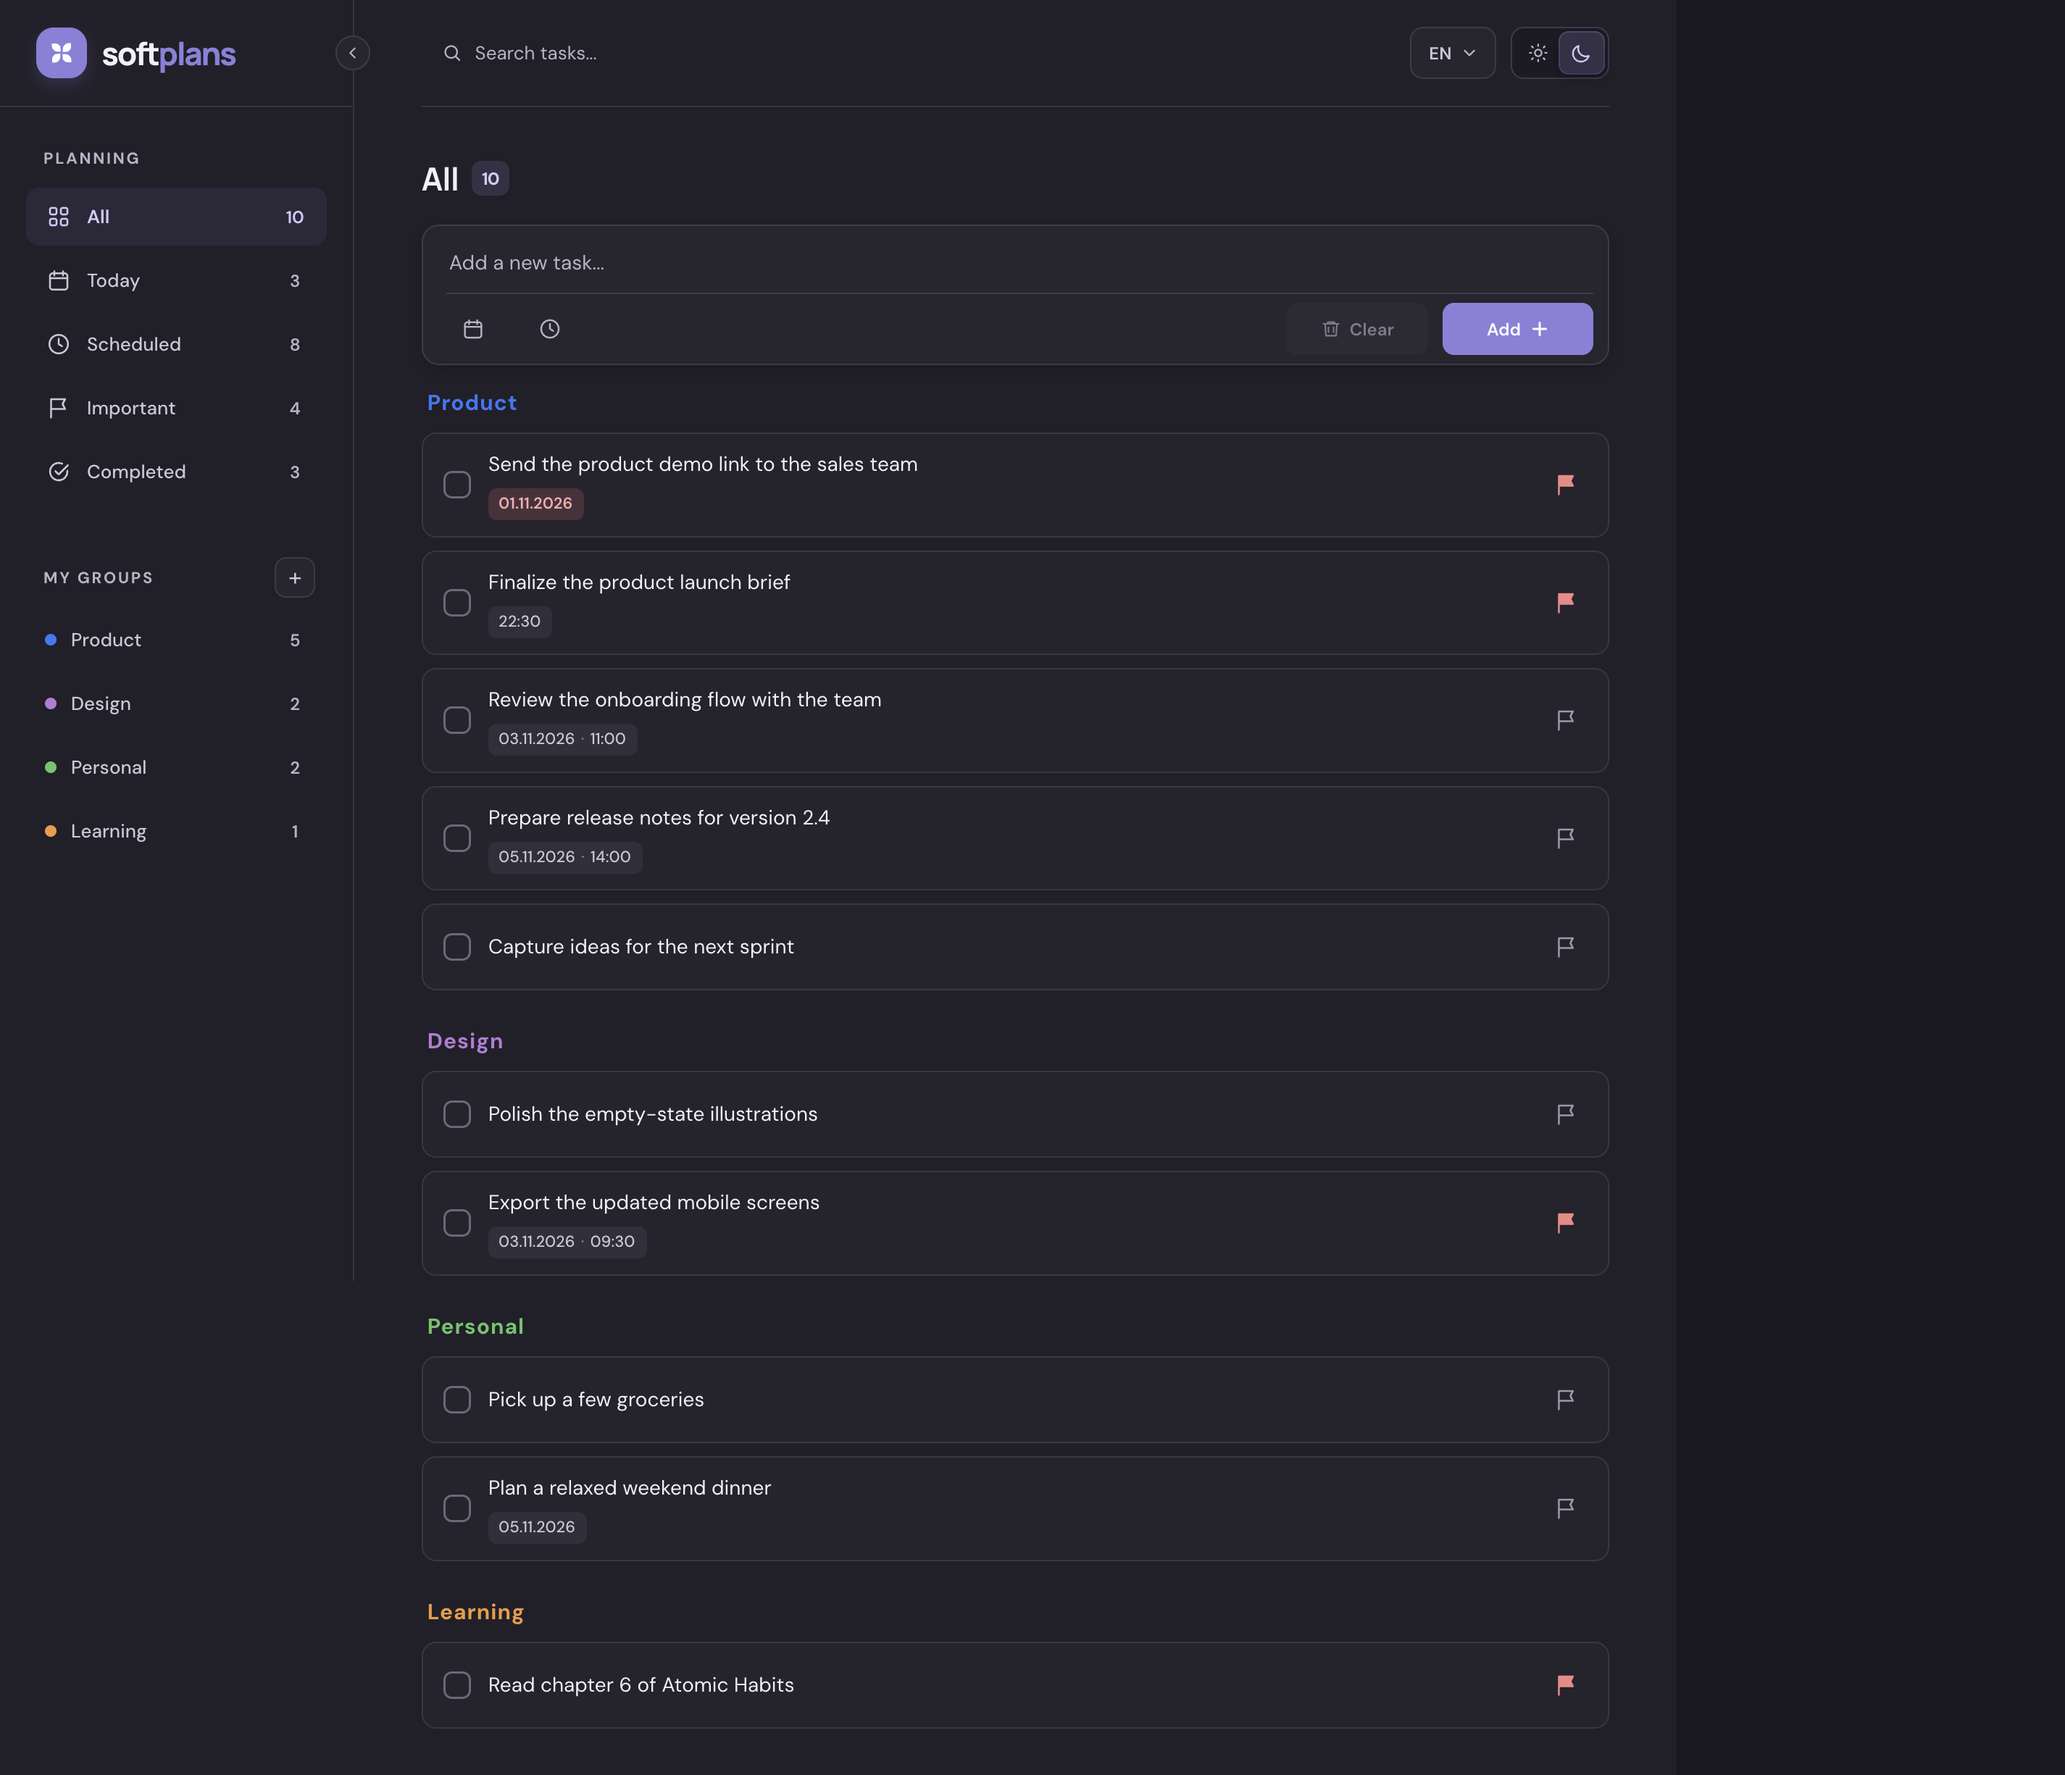
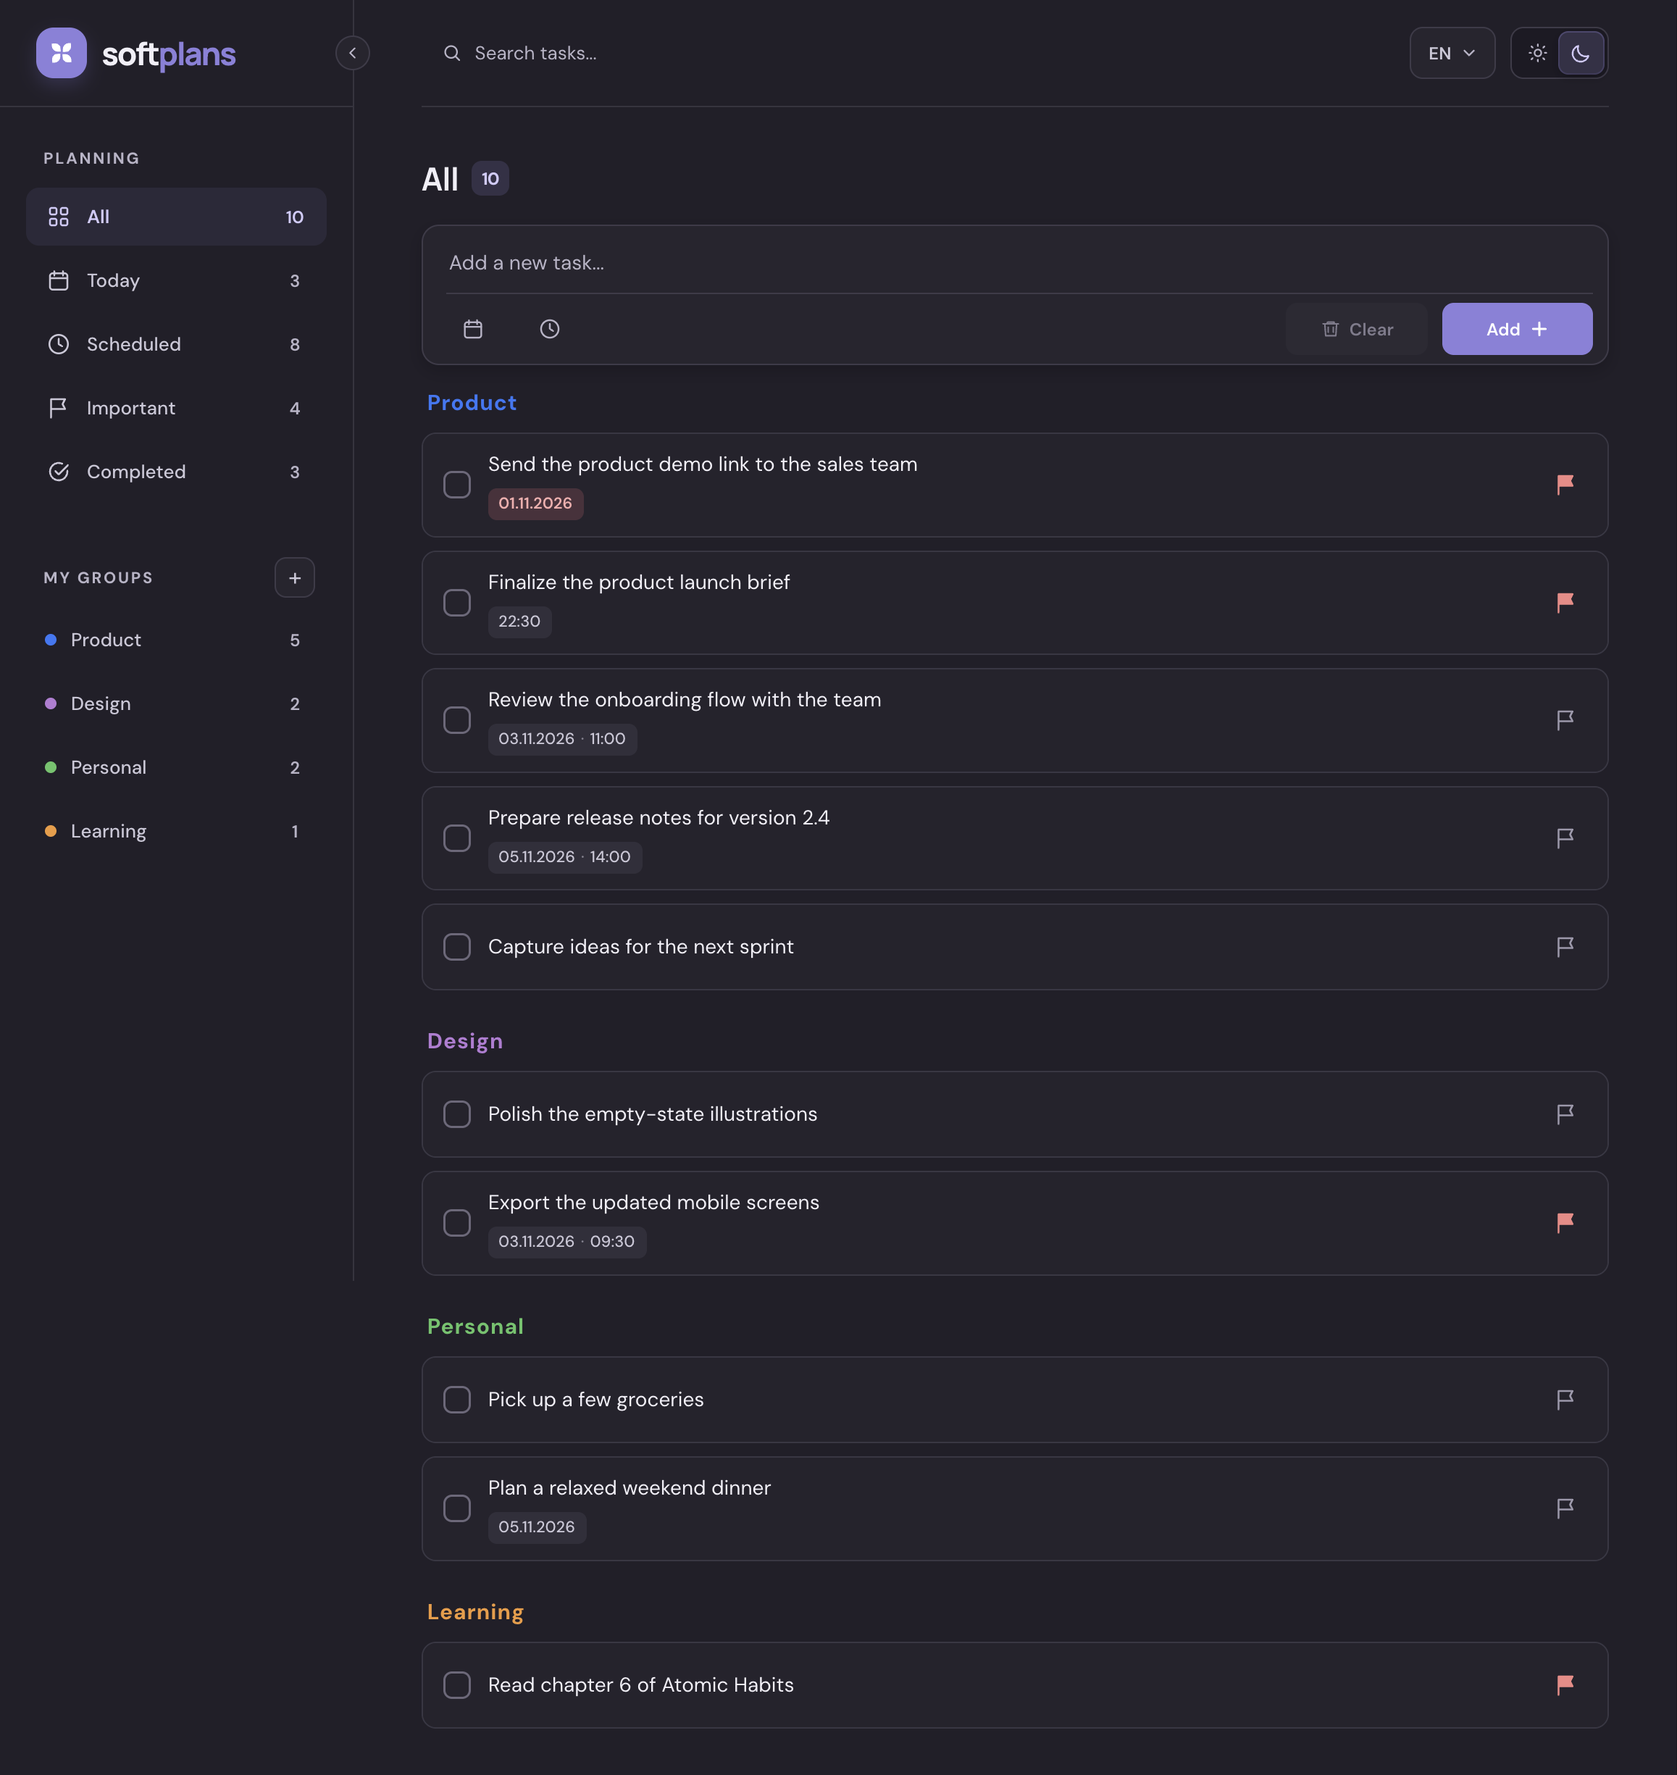
Add files via upload

diff --git a/README.md b/README.md
@@ -112,18 +112,18 @@ The gallery below shows the real interface in desktop and mobile layouts, across
 
 ## Get started
 
-SoftPlans is a static web app: there is no package installation, build step, account, or backend to configure.
+SoftPlans is a static web app built with vanilla JavaScript modules. It has no project dependencies, build step, account, or backend to configure. You need Node.js and npm to run the local server below.
 
 1. Clone or download this repository.
-2. From the project directory, start a local HTTP server:
+2. From the project directory, start a local HTTP server with `npx`:
 
    ```bash
-   python3 -m http.server 8000
+   npx --yes serve . --listen 8000
    ```
 
 3. Open [http://localhost:8000](http://localhost:8000) in a modern browser.
 
-Serving the project over HTTP is recommended because the app uses JavaScript modules and browser storage.
+`npx` downloads the small `serve` utility if it is not already cached. Serving the project over HTTP is required because the app uses JavaScript modules and browser storage.
 
 ### Deploy to GitHub Pages
 
